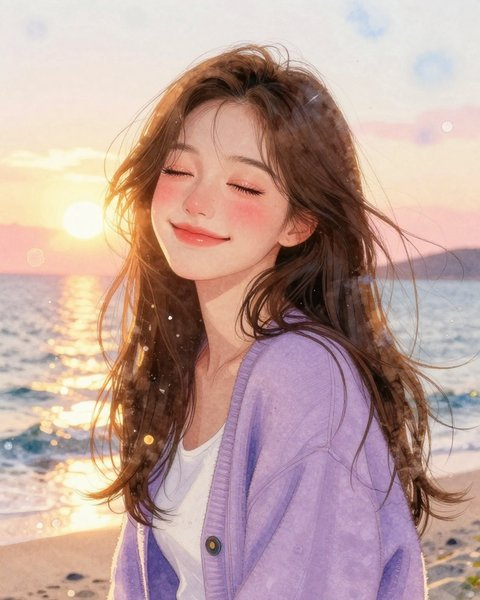
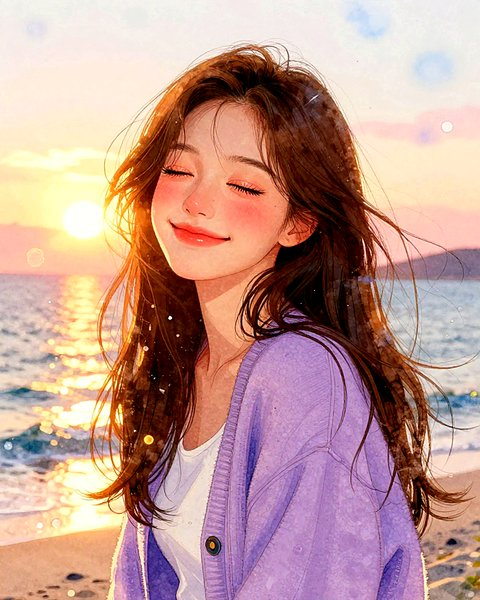
feat: Manhwa recap chỉnh màu ảnh sau khi vẽ cho rực và nét hơn
Prompt màu nước + bloom cho ảnh hơi đục, nhạt như phủ sương so với ảnh
mẫu girl1. Thêm recap.grade(): kéo dãn tương phản, tăng bão hoà x1.25,
tương phản x1.10, làm nét (UnsharpMask 90%) cho mọi ảnh trước khi dựng
khung. Chọn mức "vừa" trong 3 mức thử — mạnh hơn thì da ngả cam. Chỉnh
sau khi vẽ chứ không đổi prompt để ngoại hình nhân vật giữ nguyên; không
tốn thêm GPU. Ảnh mẫu hai kiểu nhân vật chỉnh màu theo cho khớp.

diff --git a/core/recap.py b/core/recap.py
@@ -39,6 +39,13 @@ ZOOM_TO = 1.06
 BLUR_RADIUS = 28
 BACKGROUND_DIM = 0.55
 ENCODE_WORKERS = 4
+# Chỉnh màu sau khi vẽ (06/11/2026): prompt màu nước + bloom cho ảnh hơi đục,
+# nhạt như phủ sương so với ảnh mẫu girl1. Mức "vừa" trong 3 mức thử — mạnh
+# hơn thì da ngả cam. Chỉnh ở đây chứ không ở prompt để không lệch ngoại hình.
+GRADE_CUTOFF = 0.5        # % điểm tối/sáng nhất bỏ qua khi kéo dãn tương phản
+GRADE_SATURATION = 1.25
+GRADE_CONTRAST = 1.10
+GRADE_SHARPEN = 90        # % UnsharpMask
 
 # Kiểu tranh màu nước manhwa lãng mạn theo ảnh mẫu khách đưa (girl1: cô gái cầm
 # hướng dương). Chỉnh 05-06/11/2026 theo nhận xét của người xem bản trước:
@@ -199,11 +206,21 @@ def plan(sentences: List[str], timings: List[Tuple[float, float]],
 
 
 # ── Dựng khung + video ───────────────────────────────────────
+def grade(img):
+    """Màu đậm hơn, tương phản rõ hơn, nét hơn — xem GRADE_*."""
+    from PIL import ImageEnhance, ImageFilter, ImageOps
+
+    img = ImageOps.autocontrast(img, cutoff=GRADE_CUTOFF, preserve_tone=True)
+    img = ImageEnhance.Color(img).enhance(GRADE_SATURATION)
+    img = ImageEnhance.Contrast(img).enhance(GRADE_CONTRAST)
+    return img.filter(ImageFilter.UnsharpMask(radius=2, percent=GRADE_SHARPEN, threshold=2))
+
+
 def compose_frame(panel: bytes, path: Path) -> None:
     """Khung dọc ở giữa, hai bên là chính ảnh đó phủ kín, mờ và tối."""
     from PIL import Image, ImageEnhance, ImageFilter, ImageOps
 
-    img = Image.open(io.BytesIO(panel)).convert("RGB")
+    img = grade(Image.open(io.BytesIO(panel)).convert("RGB"))
     frame = ImageOps.fit(img, (FRAME_W, FRAME_H)).filter(ImageFilter.GaussianBlur(BLUR_RADIUS))
     frame = ImageEnhance.Brightness(frame).enhance(BACKGROUND_DIM)
     front = ImageOps.contain(img, (FRAME_W, FRAME_H))

diff --git a/tests/test_recap.py b/tests/test_recap.py
@@ -127,5 +127,13 @@ def test_compose_frame_keeps_portrait_centered_on_blurred_background(tmp_path):
     frame = Image.open(tmp_path / "f.png").convert("RGB")
     assert frame.size == (recap.FRAME_W, recap.FRAME_H)
     center, edge = frame.getpixel((recap.FRAME_W // 2, recap.FRAME_H // 2)), frame.getpixel((5, recap.FRAME_H // 2))
-    assert center == (200, 40, 40)
+    assert center == recap.grade(Image.new("RGB", (8, 8), (200, 40, 40))).getpixel((4, 4))
     assert edge[0] < center[0]  # hai bên tối hơn
+
+
+def test_grade_makes_washed_out_colors_bolder():
+    from PIL import Image
+
+    pastel = Image.new("RGB", (8, 8), (220, 190, 180))
+    graded = recap.grade(pastel).getpixel((4, 4))
+    assert graded[0] - graded[2] > 220 - 180  # màu đậm hơn
